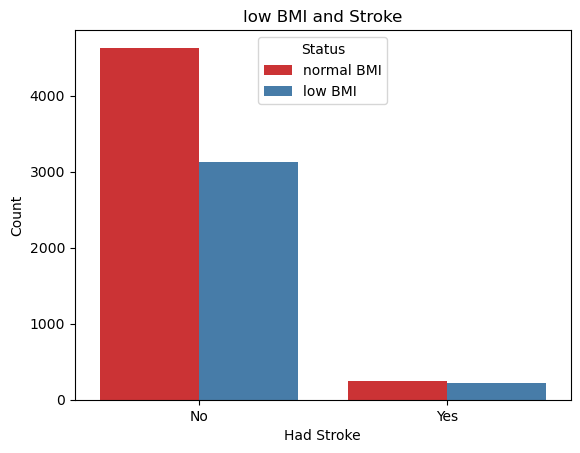
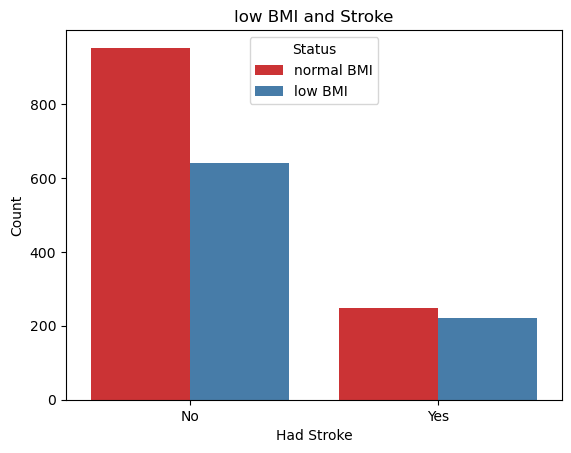
Ima cry

diff --git a/code/dataanalysis.py b/code/dataanalysis.py
@@ -259,7 +259,7 @@ def main():
     correlations = find_correlations(normalized_risk_factor)
     print(sorted_correlations(correlations))
     # print(find_risk_factor_correlation(risk_factor_data))
-    comparison_bar_charts(risk_factor_data)
+    comparison_bar_charts(normalized_risk_factor)
 
     # map_risk_factors(map_data)
     # print("\n================================")
